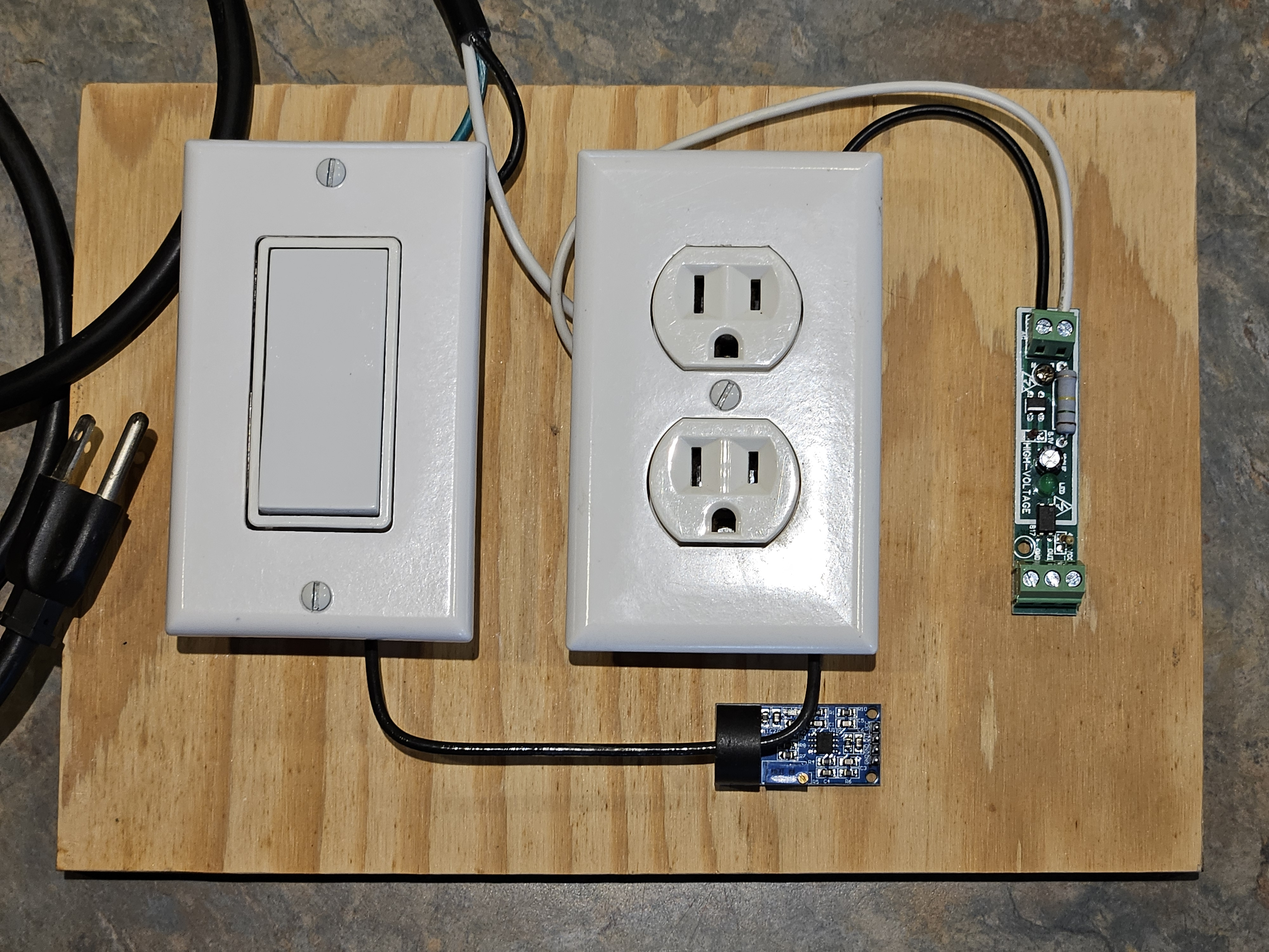
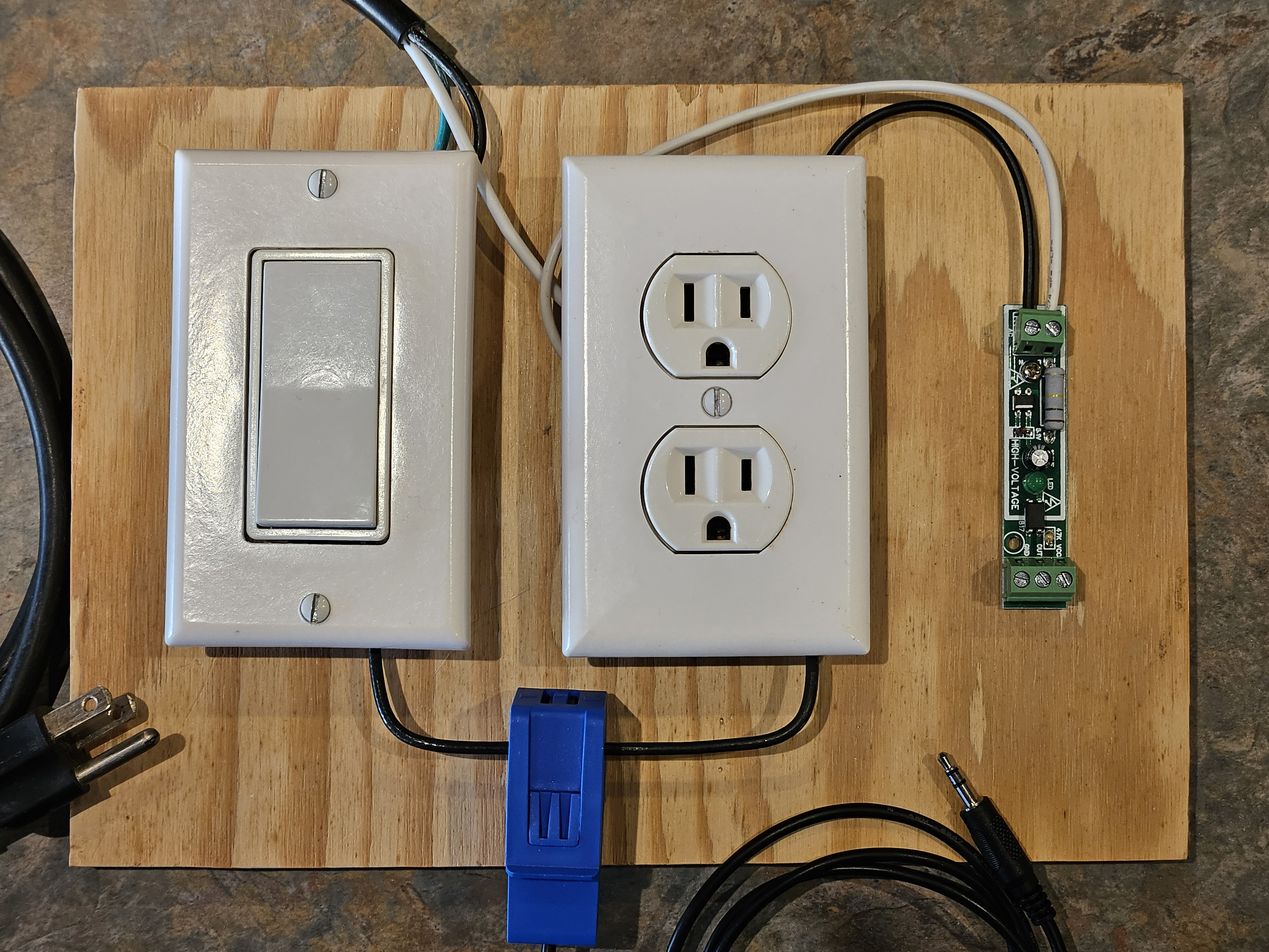
Updated to 20A current sensor.

diff --git a/README.md b/README.md
@@ -38,22 +38,20 @@ To power the ESP32 and added modules I will need a USB wall charger and cable. T
 
 #### Parts List
 
-| Quantity | Description                                             | Source Suggestion                                            |
-| -------- | ------------------------------------------------------- | ------------------------------------------------------------ |
-| 1        | ESP32 Development Board                                 | [Amazon.com: HiLetgo 2pcs ESP32-DevKitC ESP32-WROOM-32U Core Board ESP32 ESP-32 ESP-WROOM-32U Development Board for Arduino : Electronics](https://www.amazon.com/dp/B09KLS2YB3?psc=1&ref=ppx_yo2ov_dt_b_product_details) |
-| 1        | Antenna                                                 | [Amazon.com: 2 x 8dBi WiFi RP-SMA Male Antenna 2.4GHz 5.8GHz Dual Band +2 x 15CM U.FL/IPEX to RP-SMA Female Pigtail Cable for Mini PCIe Card Wireless Routers, PC Desktop, Repeater, FPV UAV Drone and PS4 Build : Electronics](https://www.amazon.com/dp/B07R21LN5P?psc=1&ref=ppx_yo2ov_dt_b_product_details) |
-| 1        | Breakout Board                                          | [Amazon.com: naughtystarts for ESP32 Breakout Board 3.5mm / 0.14" Terminal GPIO Expansion Board for 0.9" / 1.0" Size ESP32 Module ESP-WROOM-32 ESP32-DevKitC (Pack of 2pcs) : Electronics](https://www.amazon.com/dp/B0BYS6THLF?psc=1&ref=ppx_yo2ov_dt_b_product_details) |
-| 4        | 220V Optocoupler Module                                 | [Amazon.com: JESSINIE 3Pcs 1Channel AC 220V Optocoupler Module 220V Voltage Detect 220V Optocoupler Isolation Microcontroller TTL Level 3V-5V : Industrial & Scientific](https://www.amazon.com/dp/B0C73GGKHX?psc=1&ref=ppx_yo2ov_dt_b_product_details) or [HiLetgo AC 220V Optocoupler Module AC Optocoupler Alternating Current Detect Module 3-5V or PLC 24V Level Power for PLC MCU(1 Channel): Amazon.com: Industrial & Scientific](https://www.amazon.com/HiLetgo-Optocoupler-Alternating-Current-Channel/dp/B0CHJLYY3D/ref=sr_1_4?crid=3NMY4ZOHAL63&keywords=220V%2BOptocoupler%2BModule&qid=1707616569&s=industrial&sprefix=220v%2Boptocoupler%2Bmodule%2Cindustrial%2C115&sr=1-4&th=1) |
-| 1        | Current Sensor                                          | [3PCS Analog Current Meter Sensor Module AC 0~5A Ammeter Sensor Board Based on ZMCT103C for Arduino: Amazon.com: Industrial & Scientific](https://www.amazon.com/dp/B0B6CNC6MM?psc=1&ref=ppx_yo2ov_dt_b_product_details) |
-| 1        | SD Card Reader                                          | [Amazon.com: HiLetgo 5pcs Micro SD TF Card Adater Reader Module 6Pin SPI Interface Driver Module with chip Level Conversion for Arduino UNO R3 MEGA 2560 Due : Electronics](https://www.amazon.com/dp/B07BJ2P6X6?psc=1&ref=ppx_yo2ov_dt_b_product_details) |
-| 1        | Real-Time Clock w/Memory                                | [Amazon.com: HiLetgo 5pcs DS3231 AT24C32 Clock Module Real Time Clock Module IIC RTC Module for Arduino Without Battery : Industrial & Scientific](https://www.amazon.com/dp/B00LX3V7F0?psc=1&ref=ppx_yo2ov_dt_b_product_details) Alternate Memory Module [EC Buying 5Pcs AT24C02 Module I2C IIC Interface EEPROM Memory Module Intelligent Car Accessories with Dupont Wire at Amazon.com](https://www.amazon.com/dp/B0C73CRV1G?ref=ppx_yo2ov_dt_b_product_details&th=1) |
-| 1        | Display (optional)                                      | [Amazon.com: Frienda 10 Pieces I2C OLED Display Module OLED Display Screen Driver IIC I2C Tabellone Seriale con Display Auto-Luminoso Compatible with Arduino/Raspberry PI : Electronics](https://www.amazon.com/dp/B08VNRH5HR?ref=ppx_yo2ov_dt_b_product_details&th=1) |
-| 1        | USB Wall Charger                                        | [Amazon.com: (3 Pack) USB C Wall Charger, Dual Port PD Power Adapter Fast Charging Block for iPhone 15/15 Pro/15 Pro Max/15 Plus/14/13/12/11,X, Pad, Google Pixel, Samsung Galaxy and More : Cell Phones & Accessories](https://www.amazon.com/dp/B0BDWYL28S?ref=ppx_yo2ov_dt_b_product_details&th=1) |
-| 1        | 6' USB Cable                                            | [Amazon.com: AILKIN Micro USB Cable, 5-Pack 6ft High Speed Nylon Braided Android Charging Cables for Samsung Galaxy J8/J7/S7/S6/Edge/Note5, Sony, Motorola, HTC, LG Android Tablets and More USB to Micro USB Cords : Electronics](https://www.amazon.com/dp/B071H25C43?ref=ppx_yo2ov_dt_b_product_details&th=1) |
-| 1        | 220 Ω 1/4W Resistor (optional, beta testing)            | [Amazon](https://www.amazon.com/), [DigiKey](https://www.digikey.com/), or [Mouser Electronics](https://www.mouser.com/) |
-| 1        | 5mm LED (optional, beta testing)                        | [Amazon](https://www.amazon.com/), [DigiKey](https://www.digikey.com/), or [Mouser Electronics](https://www.mouser.com/) |
-| 1        | 10K Ω 1/4W Resistor (optional, voltage divider circuit) | [Amazon](https://www.amazon.com/), [DigiKey](https://www.digikey.com/), or [Mouser Electronics](https://www.mouser.com/) |
-| 1        | 20K Ω 1/4W Resistor (optional, voltage divider circuit) | [Amazon](https://www.amazon.com/), [DigiKey](https://www.digikey.com/), or [Mouser Electronics](https://www.mouser.com/) |
+| Quantity | Description                                  | Source Suggestion                                            |
+| -------- | -------------------------------------------- | ------------------------------------------------------------ |
+| 1        | ESP32 Development Board                      | [Amazon.com: HiLetgo 2pcs ESP32-DevKitC ESP32-WROOM-32U Core Board ESP32 ESP-32 ESP-WROOM-32U Development Board for Arduino : Electronics](https://www.amazon.com/dp/B09KLS2YB3?psc=1&ref=ppx_yo2ov_dt_b_product_details) |
+| 1        | Antenna                                      | [Amazon.com: 2 x 8dBi WiFi RP-SMA Male Antenna 2.4GHz 5.8GHz Dual Band +2 x 15CM U.FL/IPEX to RP-SMA Female Pigtail Cable for Mini PCIe Card Wireless Routers, PC Desktop, Repeater, FPV UAV Drone and PS4 Build : Electronics](https://www.amazon.com/dp/B07R21LN5P?psc=1&ref=ppx_yo2ov_dt_b_product_details) |
+| 1        | Breakout Board                               | [Amazon.com: naughtystarts for ESP32 Breakout Board 3.5mm / 0.14" Terminal GPIO Expansion Board for 0.9" / 1.0" Size ESP32 Module ESP-WROOM-32 ESP32-DevKitC (Pack of 2pcs) : Electronics](https://www.amazon.com/dp/B0BYS6THLF?psc=1&ref=ppx_yo2ov_dt_b_product_details) |
+| 4        | 220V Optocoupler Module                      | [Amazon.com: JESSINIE 3Pcs 1Channel AC 220V Optocoupler Module 220V Voltage Detect 220V Optocoupler Isolation Microcontroller TTL Level 3V-5V : Industrial & Scientific](https://www.amazon.com/dp/B0C73GGKHX?psc=1&ref=ppx_yo2ov_dt_b_product_details) <br />[HiLetgo AC 220V Optocoupler Module AC Optocoupler Alternating Current Detect Module 3-5V or PLC 24V Level Power for PLC MCU(1 Channel): Amazon.com: Industrial & Scientific](https://www.amazon.com/HiLetgo-Optocoupler-Alternating-Current-Channel/dp/B0CHJLYY3D/ref=sr_1_4?crid=3NMY4ZOHAL63&keywords=220V%2BOptocoupler%2BModule&qid=1707616569&s=industrial&sprefix=220v%2Boptocoupler%2Bmodule%2Cindustrial%2C115&sr=1-4&th=1) |
+| 1        | Current Sensor                               | [Gravity: Analog AC Current Sensor (20A) - DFRobot](https://www.dfrobot.com/product-1486.html)<br />[Gravity Analog Ac Current Sensor - SEN0211 (electromaker.io)](https://www.electromaker.io/shop/product/gravity-analog-ac-current-sensor)<br />[Amazon.com: Gravity: Analog AC Current Sensor (20A) - AC Current Signal Conversion Module and Open Type AC Transformer Probe Included - Non-contact Measurement : Industrial & Scientific](https://www.amazon.com/Gravity-Conversion-Transformer-Non-contact-Measurement/dp/B0834T9T7M/ref=sr_1_1?crid=37R01SIE984NI&dib=eyJ2IjoiMSJ9.pQZF_7XWzg2r8BOWxppsEw.fQGJyUnb38UZE81QAZmL_Af6NJ-5q_uVt92-crwQPYU&dib_tag=se&keywords=SEN0211&qid=1711410513&sprefix=sen0211%2Caps%2C100&sr=8-1&th=1) |
+| 1        | SD Card Reader                               | [Amazon.com: HiLetgo 5pcs Micro SD TF Card Adater Reader Module 6Pin SPI Interface Driver Module with chip Level Conversion for Arduino UNO R3 MEGA 2560 Due : Electronics](https://www.amazon.com/dp/B07BJ2P6X6?psc=1&ref=ppx_yo2ov_dt_b_product_details) |
+| 1        | Real-Time Clock w/Memory                     | [Amazon.com: HiLetgo 5pcs DS3231 AT24C32 Clock Module Real Time Clock Module IIC RTC Module for Arduino Without Battery : Industrial & Scientific](https://www.amazon.com/dp/B00LX3V7F0?psc=1&ref=ppx_yo2ov_dt_b_product_details) <br />Alternate Memory Module [EC Buying 5Pcs AT24C02 Module I2C IIC Interface EEPROM Memory Module Intelligent Car Accessories with Dupont Wire at Amazon.com](https://www.amazon.com/dp/B0C73CRV1G?ref=ppx_yo2ov_dt_b_product_details&th=1) |
+| 1        | Display (optional)                           | [Amazon.com: Frienda 10 Pieces I2C OLED Display Module OLED Display Screen Driver IIC I2C Tabellone Seriale con Display Auto-Luminoso Compatible with Arduino/Raspberry PI : Electronics](https://www.amazon.com/dp/B08VNRH5HR?ref=ppx_yo2ov_dt_b_product_details&th=1) |
+| 1        | USB Wall Charger                             | [Amazon.com: (3 Pack) USB C Wall Charger, Dual Port PD Power Adapter Fast Charging Block for iPhone 15/15 Pro/15 Pro Max/15 Plus/14/13/12/11,X, Pad, Google Pixel, Samsung Galaxy and More : Cell Phones & Accessories](https://www.amazon.com/dp/B0BDWYL28S?ref=ppx_yo2ov_dt_b_product_details&th=1) |
+| 1        | 6' USB Cable                                 | [Amazon.com: AILKIN Micro USB Cable, 5-Pack 6ft High Speed Nylon Braided Android Charging Cables for Samsung Galaxy J8/J7/S7/S6/Edge/Note5, Sony, Motorola, HTC, LG Android Tablets and More USB to Micro USB Cords : Electronics](https://www.amazon.com/dp/B071H25C43?ref=ppx_yo2ov_dt_b_product_details&th=1) |
+| 1        | 220 Ω 1/4W Resistor (optional, beta testing) | [Amazon](https://www.amazon.com/), [DigiKey](https://www.digikey.com/), or [Mouser Electronics](https://www.mouser.com/) |
+| 1        | 5mm LED (optional, beta testing)             | [Amazon](https://www.amazon.com/), [DigiKey](https://www.digikey.com/), or [Mouser Electronics](https://www.mouser.com/) |
 
 ### Visual Studio Code
 
@@ -101,50 +99,13 @@ While determining if the pump has been turned on by either the pump timer or the
 
 Now I could loop back a wire from the low water float/pump connection and wire it to a 220V optocoupler module to determine if the pump was running, but depending on the distance of the control box from the pump this could be extremely difficult. Also, since the low water float is most likely wired directly to one of the pump leads it is also most likely connected with a special water proof heat shrink connector which complicates things and making this project more complicating is not an objective.
 
+
+
+*** Rewrite...
+
+
+
 For this reason I've chosen to use a current sensor. A current sensor will tell us if current is being drawn through the pump circuit, hence the pump is running. After a good bit of research I chose a current sensor based on the ZMCT103C current transformer that uses an LM358 with dual operational amplifiers. The sensor PCB design is open source and while it can be easily purchased from multiple sources including [Amazon](https://www.amazon.com/), [eBay](https://www.ebay.com/) and [AliExpress](https://www.aliexpress.us/). It can be a bit difficult to find good specification details and documentation. However, after some digging on the Internet I was able to find the following schematic and other relevant details from the following sites.
-
-[Current_sensor_ZMCT103C_LM358 - EasyEDA open source hardware lab (oshwlab.com)](https://oshwlab.com/sulagaev/current_sensor_zmct103c_lm358)
-
-[ZMCT103C Precision Current Sensor : Datasheet & Its Applications (watelectronics.com)](https://www.watelectronics.com/zmct103c-precision-current-sensor/)
-
-[ZMCT103C - Precision Current Sensor Pinout, Features, Datasheet, Working, Application, Alternative (components101.com)](https://components101.com/sensors/zmct103c-precision-current-sensor-pinout-features-datasheet-alternative)
-
-![Current Sensor ZMCT103C LM358 Schematic](.\images\Current Sensor ZMCT103C LM358 Schematic.png)
-
-<img src=".\images\Current Sensor ZMCT103C LM358 PCB.png" alt="Current Sensor ZMCT103C LM358 PCB" style="zoom:190%;" /> <img src=".\images\Current Sensor ZMCT103C LM358.jpg" alt="Current Sensor ZMCT103C LM358" style="zoom:35%;" />
-
-| Name     | Designator  | Footprint                      | Quantity |
-| -------- | ----------- | ------------------------------ | -------- |
-| 1uF      | C1,C4,C6    | C0805                          | 3        |
-| 10nF     | C2,C5       | C0805                          | 2        |
-| 10uF     | C3          | C0805                          | 1        |
-| ZMCT103C | CT1         | ZMCT103C_NOWIRE                | 1        |
-| green    | LED1        | LED0402-RD                     | 1        |
-| SIP4     | P1          | HDR1X4                         | 1        |
-| 100      | R1          | R0805                          | 1        |
-| 1k       | R2,R3,R4,R6 | R0805                          | 4        |
-| 100k     | R5,R9       | R0805                          | 2        |
-| 10k      | R7,R10,R11  | R0805                          | 3        |
-| 100K     | R12         | RES-ADJ-TH_3296W               | 1        |
-| LM358    | U1          | SOP-8_L4.9-W3.9-P1.27-LS6.0-BL | 1        |
-
-There are some concerns with using this sensor configuration. First, the amperage range is only 5A (amps). Since most aerobic septic system pumps are at least 1/2 Hp they can easily pull 10 or more amps. The circuit breaker for the pump on my system is 20A. Now you can buy current sensors that can read 20-30A, but they will cost you at least $20, where this sensor averages $3. Not that cheaper is better, but I am trying to keep this project both simple and inexpensive. In the end I don't need to know how much current the pump is drawing, just that it is drawing current. 
-
-The 5A limit also raises the concern of how much current can be going through the AC wire that loops through the ZMCT103C coil. After some digging I first discovered that the ZMCT103C can actually sense up to 10A. And after even more digging I found a specification maximum of 20A. 
-
-The second concern is that the sensor circuit requires 5V (volts). 5V in means, that the analog output could get as high as 5V out. Now the ESP32 development board does offer a 5V power source since it operates off of the power in the USB cable. The problem here is that the ESP32 GPIO pins are only rated for 3.3V. The obvious solution to this is to use a voltage divider circuit between the sensor and the ESP32. The circuit consist of two resistor.
-
-![Voltage Divider Schematic](C:\Users\tgoll\source\repos\AerobicSepticSystemMonitor\images\Voltage Divider Schematic.png)
-
-Based on the value of the two resistors and the maximum input voltage, you can calculate the maximum output voltage with the following equation.
-
-![Voltage Divider Formula](C:\Users\tgoll\source\repos\AerobicSepticSystemMonitor\images\Voltage Divider Formula.svg)
-
-If you want to learn more just Google "voltage divider circuit". For our situation a solution can easily be accomplished with a 10K ohm (R1) resistor and 20K ohm (R2) resistor.
-
-Now after considering a voltage divider circuit I did some further digging into the sensor circuit. It turns out that the LM358 amplifier has an operating voltage range of 3-30V. So why not power the sensor with the 3.3V power supply. Well I'm rather certain after looking at the sensor circuit schematic and without reading all of the data sheets on the ZMCT103C that the resistors in conjunction with the ZMCT103C have been calculated to split the voltage such that 5A translates to a 5V range. So running the circuit on 3.3V will most likely not translate 5A in to a 3.3V range. But again, I don't care about exactly measuring the amperage, I just want to know there is amperage.
-
-*** Need to Test 3.3V
 
 
 
